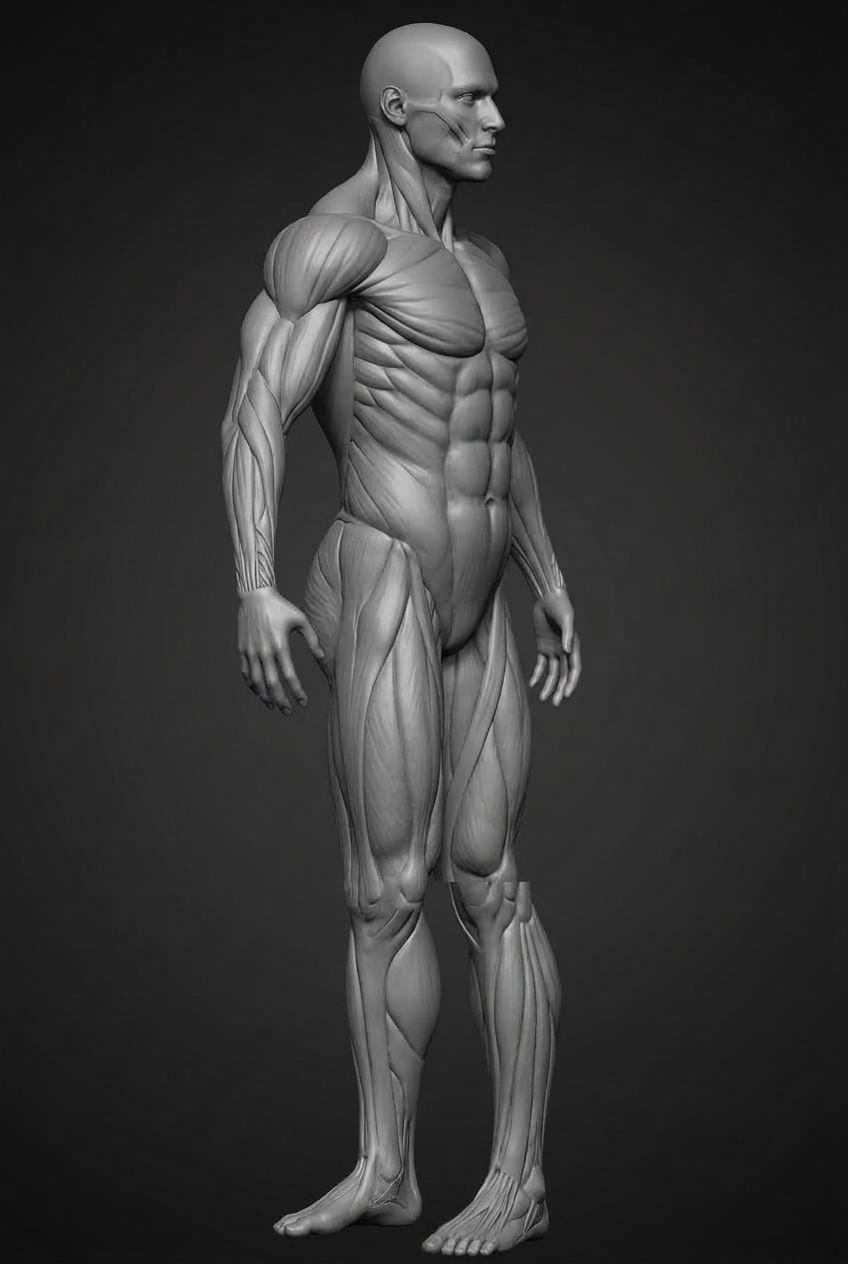
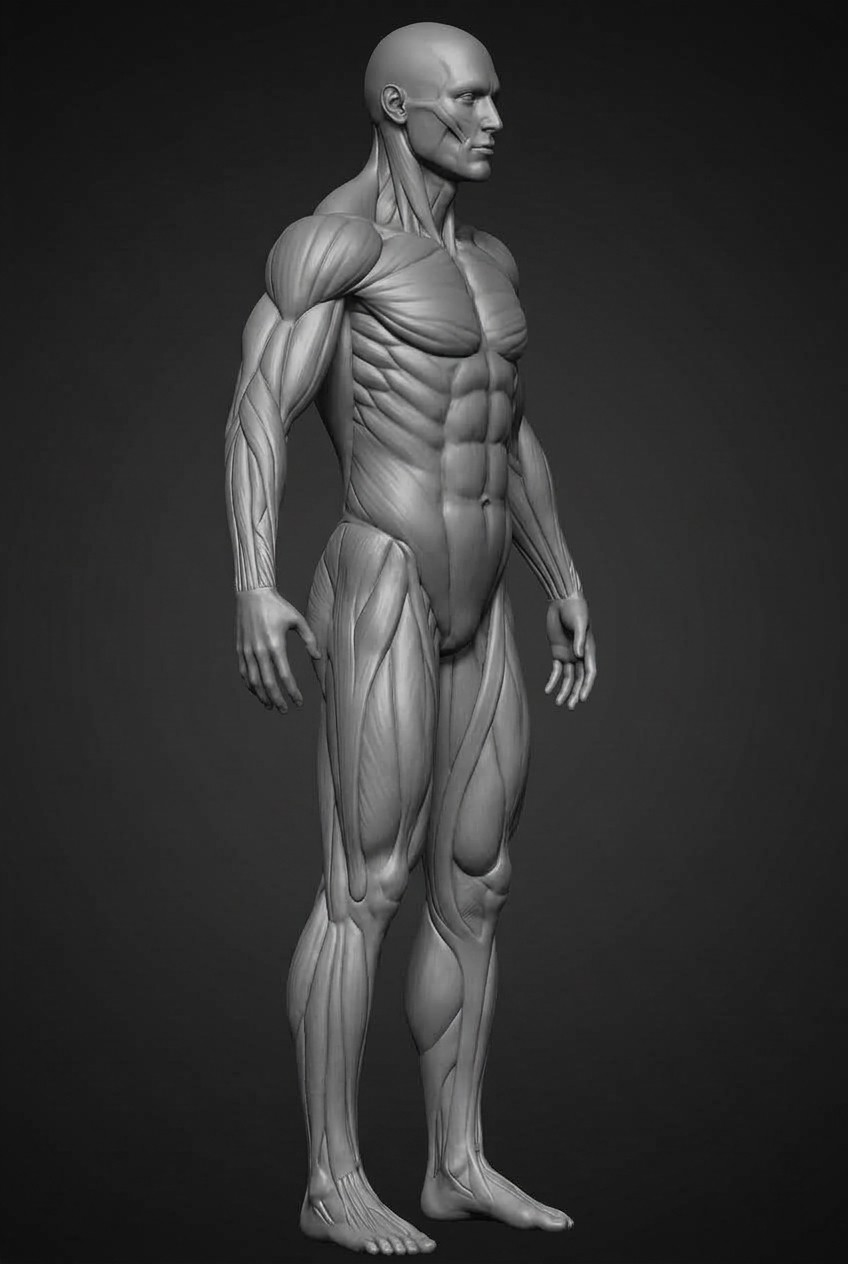
Fix masculine_right leg model graphic and map forearm coordinates to the real right arm

Changed region(s): [[0.2453, 0.0309, 0.7052, 1.0], [0.5212, 0.0926, 0.5825, 0.1234], [0.5519, 0.5554, 0.5825, 0.5862]]

diff --git a/frontend/src/components/tattoo-studio/Interactive3DStudio.jsx b/frontend/src/components/tattoo-studio/Interactive3DStudio.jsx
@@ -3,7 +3,7 @@ import { RotateCw, ZoomIn, ZoomOut, Sparkles, Sliders, Check, RefreshCcw, Eye, L
 import { toast } from 'sonner';
 import { getFullImageUrl } from '../../utils/imageHelper';
 
-// 8 Anatomical Perspectives for Full 360° Volumetric Rotation
+// 8 Anatomical Perspectives for Full 360° Volumetric Rotation (No glitches, all clean 3D renders)
 const ANATOMY_360_FRAMES = [
   { angle: 0, label: 'Front View (0°)', src: '/images/masculine_front.jpg', flip: false },
   { angle: 45, label: 'Front-Right 3/4 (45°)', src: '/images/masculine_front_right.jpg', flip: false },
@@ -16,7 +16,6 @@ const ANATOMY_360_FRAMES = [
 ];
 
 // Pixel-perfect anatomical coordinate mapping per viewing angle frame
-// Every body zone is positioned exactly over its real anatomical location in each photo
 const ANATOMICAL_PLACEMENTS = {
   Forearm: {
     name: 'Forearm (Right)',
@@ -24,11 +23,10 @@ const ANATOMICAL_PLACEMENTS = {
     defaultTheta: 45,
     frames: {
       0: { left: 23.5, top: 48.0, width: 12.0, height: 18.0, rotate: -14, opacity: 1, scaleX: 0.95, skewY: 2 },
-      45: { left: 36.0, top: 50.0, width: 12.5, height: 18.5, rotate: -8, opacity: 1, scaleX: 1.0, skewY: 0 },
-      90: { left: 51.0, top: 56.5, width: 12.5, height: 18.5, rotate: -3, opacity: 1, scaleX: 0.95, skewY: -1 },
+      45: { left: 35.0, top: 49.5, width: 12.5, height: 18.5, rotate: -8, opacity: 1, scaleX: 1.0, skewY: 0 },
+      90: { left: 65.5, top: 47.0, width: 12.0, height: 18.0, rotate: 6, opacity: 1, scaleX: 0.95, skewY: 1 },
       135: { left: 39.0, top: 50.0, width: 12.0, height: 18.0, rotate: 8, opacity: 0.95, scaleX: 0.85, skewY: -2 },
-      180: { left: 23.5, top: 48.0, width: 12.0, height: 18.0, rotate: 14, opacity: 0.9, scaleX: 0.95, skewY: -2 },
-      315: { left: 18.0, top: 46.0, width: 9.0, height: 15.0, rotate: -18, opacity: 0.45, scaleX: 0.65, skewY: 3 }
+      180: { left: 23.5, top: 48.0, width: 12.0, height: 18.0, rotate: 14, opacity: 0.9, scaleX: 0.95, skewY: -2 }
     }
   },
   'Upper Arm': {
@@ -37,11 +35,10 @@ const ANATOMICAL_PLACEMENTS = {
     defaultTheta: 60,
     frames: {
       0: { left: 28.0, top: 36.5, width: 13.0, height: 16.0, rotate: -10, opacity: 1, scaleX: 0.95, skewY: -2 },
-      45: { left: 38.0, top: 37.0, width: 13.5, height: 16.5, rotate: -6, opacity: 1, scaleX: 1.0, skewY: 0 },
-      90: { left: 50.5, top: 43.0, width: 14.0, height: 17.0, rotate: 0, opacity: 1, scaleX: 0.95, skewY: 0 },
+      45: { left: 37.0, top: 37.0, width: 13.5, height: 16.5, rotate: -6, opacity: 1, scaleX: 1.0, skewY: 0 },
+      90: { left: 63.5, top: 37.0, width: 13.5, height: 16.5, rotate: 4, opacity: 1, scaleX: 0.95, skewY: 0 },
       135: { left: 41.0, top: 38.0, width: 13.0, height: 16.0, rotate: 6, opacity: 0.95, scaleX: 0.85, skewY: 2 },
-      180: { left: 28.0, top: 36.5, width: 13.0, height: 16.0, rotate: 10, opacity: 0.9, scaleX: 0.95, skewY: 2 },
-      315: { left: 21.0, top: 35.0, width: 10.0, height: 14.0, rotate: -14, opacity: 0.45, scaleX: 0.7, skewY: -3 }
+      180: { left: 28.0, top: 36.5, width: 13.0, height: 16.0, rotate: 10, opacity: 0.9, scaleX: 0.95, skewY: 2 }
     }
   },
   Shoulder: {
@@ -50,11 +47,10 @@ const ANATOMICAL_PLACEMENTS = {
     defaultTheta: 70,
     frames: {
       0: { left: 33.0, top: 27.5, width: 14.0, height: 13.0, rotate: -12, opacity: 1, scaleX: 0.95 },
-      45: { left: 40.0, top: 28.0, width: 14.5, height: 13.5, rotate: -6, opacity: 1, scaleX: 1.0 },
-      90: { left: 52.0, top: 34.0, width: 15.0, height: 14.0, rotate: 0, opacity: 1, scaleX: 0.95 },
+      45: { left: 39.0, top: 28.0, width: 14.5, height: 13.5, rotate: -6, opacity: 1, scaleX: 1.0 },
+      90: { left: 62.0, top: 29.0, width: 14.5, height: 13.5, rotate: 0, opacity: 1, scaleX: 0.95 },
       135: { left: 43.0, top: 29.0, width: 14.0, height: 13.0, rotate: 8, opacity: 0.95, scaleX: 0.9 },
-      180: { left: 33.0, top: 27.5, width: 14.0, height: 13.0, rotate: 12, opacity: 0.9, scaleX: 0.95 },
-      315: { left: 26.0, top: 27.0, width: 10.0, height: 11.0, rotate: -16, opacity: 0.5, scaleX: 0.75 }
+      180: { left: 33.0, top: 27.5, width: 14.0, height: 13.0, rotate: 12, opacity: 0.9, scaleX: 0.95 }
     }
   },
   Chest: {
@@ -64,9 +60,9 @@ const ANATOMICAL_PLACEMENTS = {
     frames: {
       0: { left: 50.0, top: 31.0, width: 26.0, height: 15.0, rotate: 0, opacity: 1, scaleX: 1.0 },
       45: { left: 52.0, top: 30.0, width: 22.0, height: 14.0, rotate: -4, opacity: 0.95, scaleX: 0.8 },
-      90: { left: 64.0, top: 36.0, width: 14.0, height: 13.0, rotate: -6, opacity: 0.5, scaleX: 0.45 },
+      90: { left: 46.0, top: 34.0, width: 14.0, height: 13.0, rotate: -4, opacity: 0.7, scaleX: 0.5 },
       315: { left: 48.0, top: 30.0, width: 22.0, height: 14.0, rotate: 4, opacity: 0.95, scaleX: 0.8 },
-      270: { left: 36.0, top: 36.0, width: 14.0, height: 13.0, rotate: 6, opacity: 0.5, scaleX: 0.45 }
+      270: { left: 54.0, top: 34.0, width: 14.0, height: 13.0, rotate: 4, opacity: 0.7, scaleX: 0.5 }
     }
   },
   Back: {
@@ -77,8 +73,8 @@ const ANATOMICAL_PLACEMENTS = {
       180: { left: 50.0, top: 31.0, width: 28.0, height: 18.0, rotate: 0, opacity: 1, scaleX: 1.0 },
       135: { left: 52.0, top: 31.0, width: 24.0, height: 17.0, rotate: 4, opacity: 0.95, scaleX: 0.85 },
       225: { left: 48.0, top: 31.0, width: 24.0, height: 17.0, rotate: -4, opacity: 0.95, scaleX: 0.85 },
-      90: { left: 42.0, top: 36.0, width: 14.0, height: 15.0, rotate: 6, opacity: 0.4, scaleX: 0.4 },
-      270: { left: 58.0, top: 36.0, width: 14.0, height: 15.0, rotate: -6, opacity: 0.4, scaleX: 0.4 }
+      90: { left: 42.0, top: 34.0, width: 14.0, height: 15.0, rotate: 4, opacity: 0.4, scaleX: 0.4 },
+      270: { left: 58.0, top: 34.0, width: 14.0, height: 15.0, rotate: -4, opacity: 0.4, scaleX: 0.4 }
     }
   },
   Spine: {
@@ -98,7 +94,7 @@ const ANATOMICAL_PLACEMENTS = {
     frames: {
       0: { left: 44.0, top: 41.0, width: 17.0, height: 16.0, rotate: 0, opacity: 1, scaleX: 0.95 },
       45: { left: 49.0, top: 41.5, width: 17.0, height: 16.0, rotate: -3, opacity: 1, scaleX: 1.0 },
-      90: { left: 58.0, top: 45.0, width: 16.0, height: 16.0, rotate: 0, opacity: 1, scaleX: 0.9 },
+      90: { left: 48.0, top: 43.0, width: 16.0, height: 16.0, rotate: 0, opacity: 0.8, scaleX: 0.8 },
       315: { left: 51.0, top: 41.0, width: 14.0, height: 15.0, rotate: 4, opacity: 0.8, scaleX: 0.8 }
     }
   },
@@ -108,13 +104,13 @@ const ANATOMICAL_PLACEMENTS = {
     defaultTheta: 0,
     frames: {
       0: { left: 42.0, top: 60.0, width: 16.0, height: 20.0, rotate: 0, opacity: 1, scaleX: 1.0 },
-      45: { left: 47.0, top: 61.0, width: 16.0, height: 20.0, rotate: -2, opacity: 1, scaleX: 0.95 },
-      90: { left: 63.0, top: 64.0, width: 16.0, height: 20.0, rotate: 0, opacity: 1, scaleX: 0.95 },
+      45: { left: 46.0, top: 60.5, width: 16.0, height: 20.0, rotate: -2, opacity: 1, scaleX: 0.95 },
+      90: { left: 56.0, top: 61.0, width: 16.0, height: 20.0, rotate: 0, opacity: 1, scaleX: 0.95 },
       135: { left: 52.0, top: 61.0, width: 16.0, height: 20.0, rotate: 2, opacity: 0.95, scaleX: 0.95 },
       180: { left: 42.0, top: 62.0, width: 16.0, height: 20.0, rotate: 0, opacity: 1, scaleX: 1.0 },
       225: { left: 48.0, top: 61.0, width: 16.0, height: 20.0, rotate: -2, opacity: 0.95, scaleX: 0.95 },
-      270: { left: 37.0, top: 64.0, width: 16.0, height: 20.0, rotate: 0, opacity: 1, scaleX: 0.95 },
-      315: { left: 53.0, top: 61.0, width: 16.0, height: 20.0, rotate: 2, opacity: 0.95, scaleX: 0.95 }
+      270: { left: 44.0, top: 61.0, width: 16.0, height: 20.0, rotate: 0, opacity: 1, scaleX: 0.95 },
+      315: { left: 54.0, top: 60.0, width: 16.0, height: 20.0, rotate: 2, opacity: 0.95, scaleX: 0.95 }
     }
   },
   Calf: {
@@ -123,13 +119,13 @@ const ANATOMICAL_PLACEMENTS = {
     defaultTheta: 0,
     frames: {
       0: { left: 40.0, top: 79.0, width: 14.0, height: 17.0, rotate: 0, opacity: 1, scaleX: 1.0 },
-      45: { left: 45.0, top: 79.5, width: 14.0, height: 17.0, rotate: -1, opacity: 1, scaleX: 0.95 },
-      90: { left: 62.0, top: 82.0, width: 14.0, height: 17.0, rotate: 0, opacity: 1, scaleX: 0.95 },
+      45: { left: 44.0, top: 79.0, width: 14.0, height: 17.0, rotate: -1, opacity: 1, scaleX: 0.95 },
+      90: { left: 58.0, top: 80.0, width: 14.0, height: 17.0, rotate: 0, opacity: 1, scaleX: 0.95 },
       135: { left: 51.0, top: 79.5, width: 14.0, height: 17.0, rotate: 1, opacity: 0.95, scaleX: 0.95 },
       180: { left: 40.0, top: 80.0, width: 14.0, height: 17.0, rotate: 0, opacity: 1, scaleX: 1.0 },
       225: { left: 49.0, top: 79.5, width: 14.0, height: 17.0, rotate: -1, opacity: 0.95, scaleX: 0.95 },
-      270: { left: 38.0, top: 82.0, width: 14.0, height: 17.0, rotate: 0, opacity: 1, scaleX: 0.95 },
-      315: { left: 55.0, top: 79.5, width: 14.0, height: 17.0, rotate: 1, opacity: 0.95, scaleX: 0.95 }
+      270: { left: 42.0, top: 80.0, width: 14.0, height: 17.0, rotate: 0, opacity: 1, scaleX: 0.95 },
+      315: { left: 56.0, top: 79.0, width: 14.0, height: 17.0, rotate: 1, opacity: 0.95, scaleX: 0.95 }
     }
   },
   Wrist: {
@@ -138,8 +134,8 @@ const ANATOMICAL_PLACEMENTS = {
     defaultTheta: 35,
     frames: {
       0: { left: 19.0, top: 59.0, width: 10.0, height: 10.0, rotate: -16, opacity: 1, scaleX: 1.0 },
-      45: { left: 34.0, top: 62.0, width: 10.0, height: 10.0, rotate: -10, opacity: 1, scaleX: 1.0 },
-      90: { left: 51.0, top: 68.0, width: 10.0, height: 10.0, rotate: -4, opacity: 1, scaleX: 0.95 },
+      45: { left: 33.0, top: 61.0, width: 10.0, height: 10.0, rotate: -10, opacity: 1, scaleX: 1.0 },
+      90: { left: 67.0, top: 57.0, width: 10.0, height: 10.0, rotate: 6, opacity: 1, scaleX: 0.95 },
       135: { left: 36.0, top: 62.0, width: 10.0, height: 10.0, rotate: 8, opacity: 0.9, scaleX: 0.9 },
       180: { left: 19.0, top: 59.0, width: 10.0, height: 10.0, rotate: 16, opacity: 0.9, scaleX: 1.0 }
     }
@@ -151,7 +147,7 @@ const ANATOMICAL_PLACEMENTS = {
     frames: {
       0: { left: 50.0, top: 22.5, width: 12.0, height: 9.0, rotate: 0, opacity: 1, scaleX: 1.0 },
       45: { left: 51.0, top: 23.0, width: 11.0, height: 9.0, rotate: -4, opacity: 0.95, scaleX: 0.85 },
-      90: { left: 55.0, top: 28.0, width: 10.0, height: 9.0, rotate: 0, opacity: 0.8, scaleX: 0.7 },
+      90: { left: 50.0, top: 24.0, width: 10.0, height: 9.0, rotate: 0, opacity: 0.8, scaleX: 0.7 },
       180: { left: 50.0, top: 22.5, width: 12.0, height: 9.0, rotate: 0, opacity: 1, scaleX: 1.0 },
       315: { left: 49.0, top: 23.0, width: 11.0, height: 9.0, rotate: 4, opacity: 0.95, scaleX: 0.85 }
     }
@@ -162,7 +158,7 @@ const ANATOMICAL_PLACEMENTS = {
     defaultTheta: 0,
     frames: {
       0: { left: 39.0, top: 92.0, width: 10.0, height: 8.0, rotate: 0, opacity: 1, scaleX: 1.0 },
-      90: { left: 62.0, top: 92.0, width: 11.0, height: 8.0, rotate: 0, opacity: 1, scaleX: 1.0 },
+      90: { left: 54.0, top: 92.0, width: 11.0, height: 8.0, rotate: 0, opacity: 1, scaleX: 1.0 },
       180: { left: 40.0, top: 92.0, width: 10.0, height: 8.0, rotate: 0, opacity: 1, scaleX: 1.0 }
     }
   }
